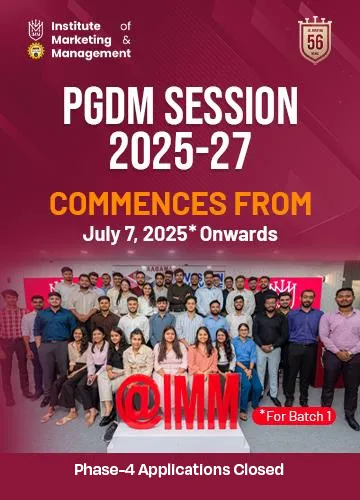
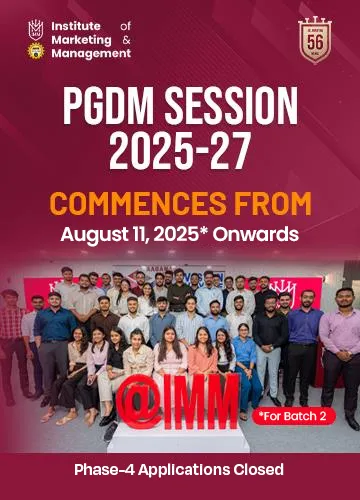
Add new entries to .gitignore for imm lp and stats; update marquee text in MarqueeContext for accuracy; replace pop-up image with updated version.

Changed region(s): [[0.1528, 0.45, 0.825, 0.51], [0.7028, 0.81, 0.9167, 0.87]]

diff --git a/src/context/MarqueeContext.jsx b/src/context/MarqueeContext.jsx
@@ -1,12 +1,13 @@
-import React, { createContext, useState, useContext } from "react";
+import { createContext, useState, useContext } from "react";
 
 const MarqueeContext = createContext();
 
+// eslint-disable-next-line react-refresh/only-export-components
 export const useMarquee = () => useContext(MarqueeContext);
 
 export const MarqueeProvider = ({ children }) => {
   const [marqueeText, setMarqueeText] = useState(
-    "PGDM Session 2025-27 Commences from July 7, 2025, onwards for Batch 1* | Phase-4 Applications Closed"
+    "PGDM Session 2025-27 Commences from August 11, 2025, onwards for Batch 2* | Phase-4 Applications Closed"
   );
   const [isBBAPage, setIsBBAPage] = useState(false);
 
